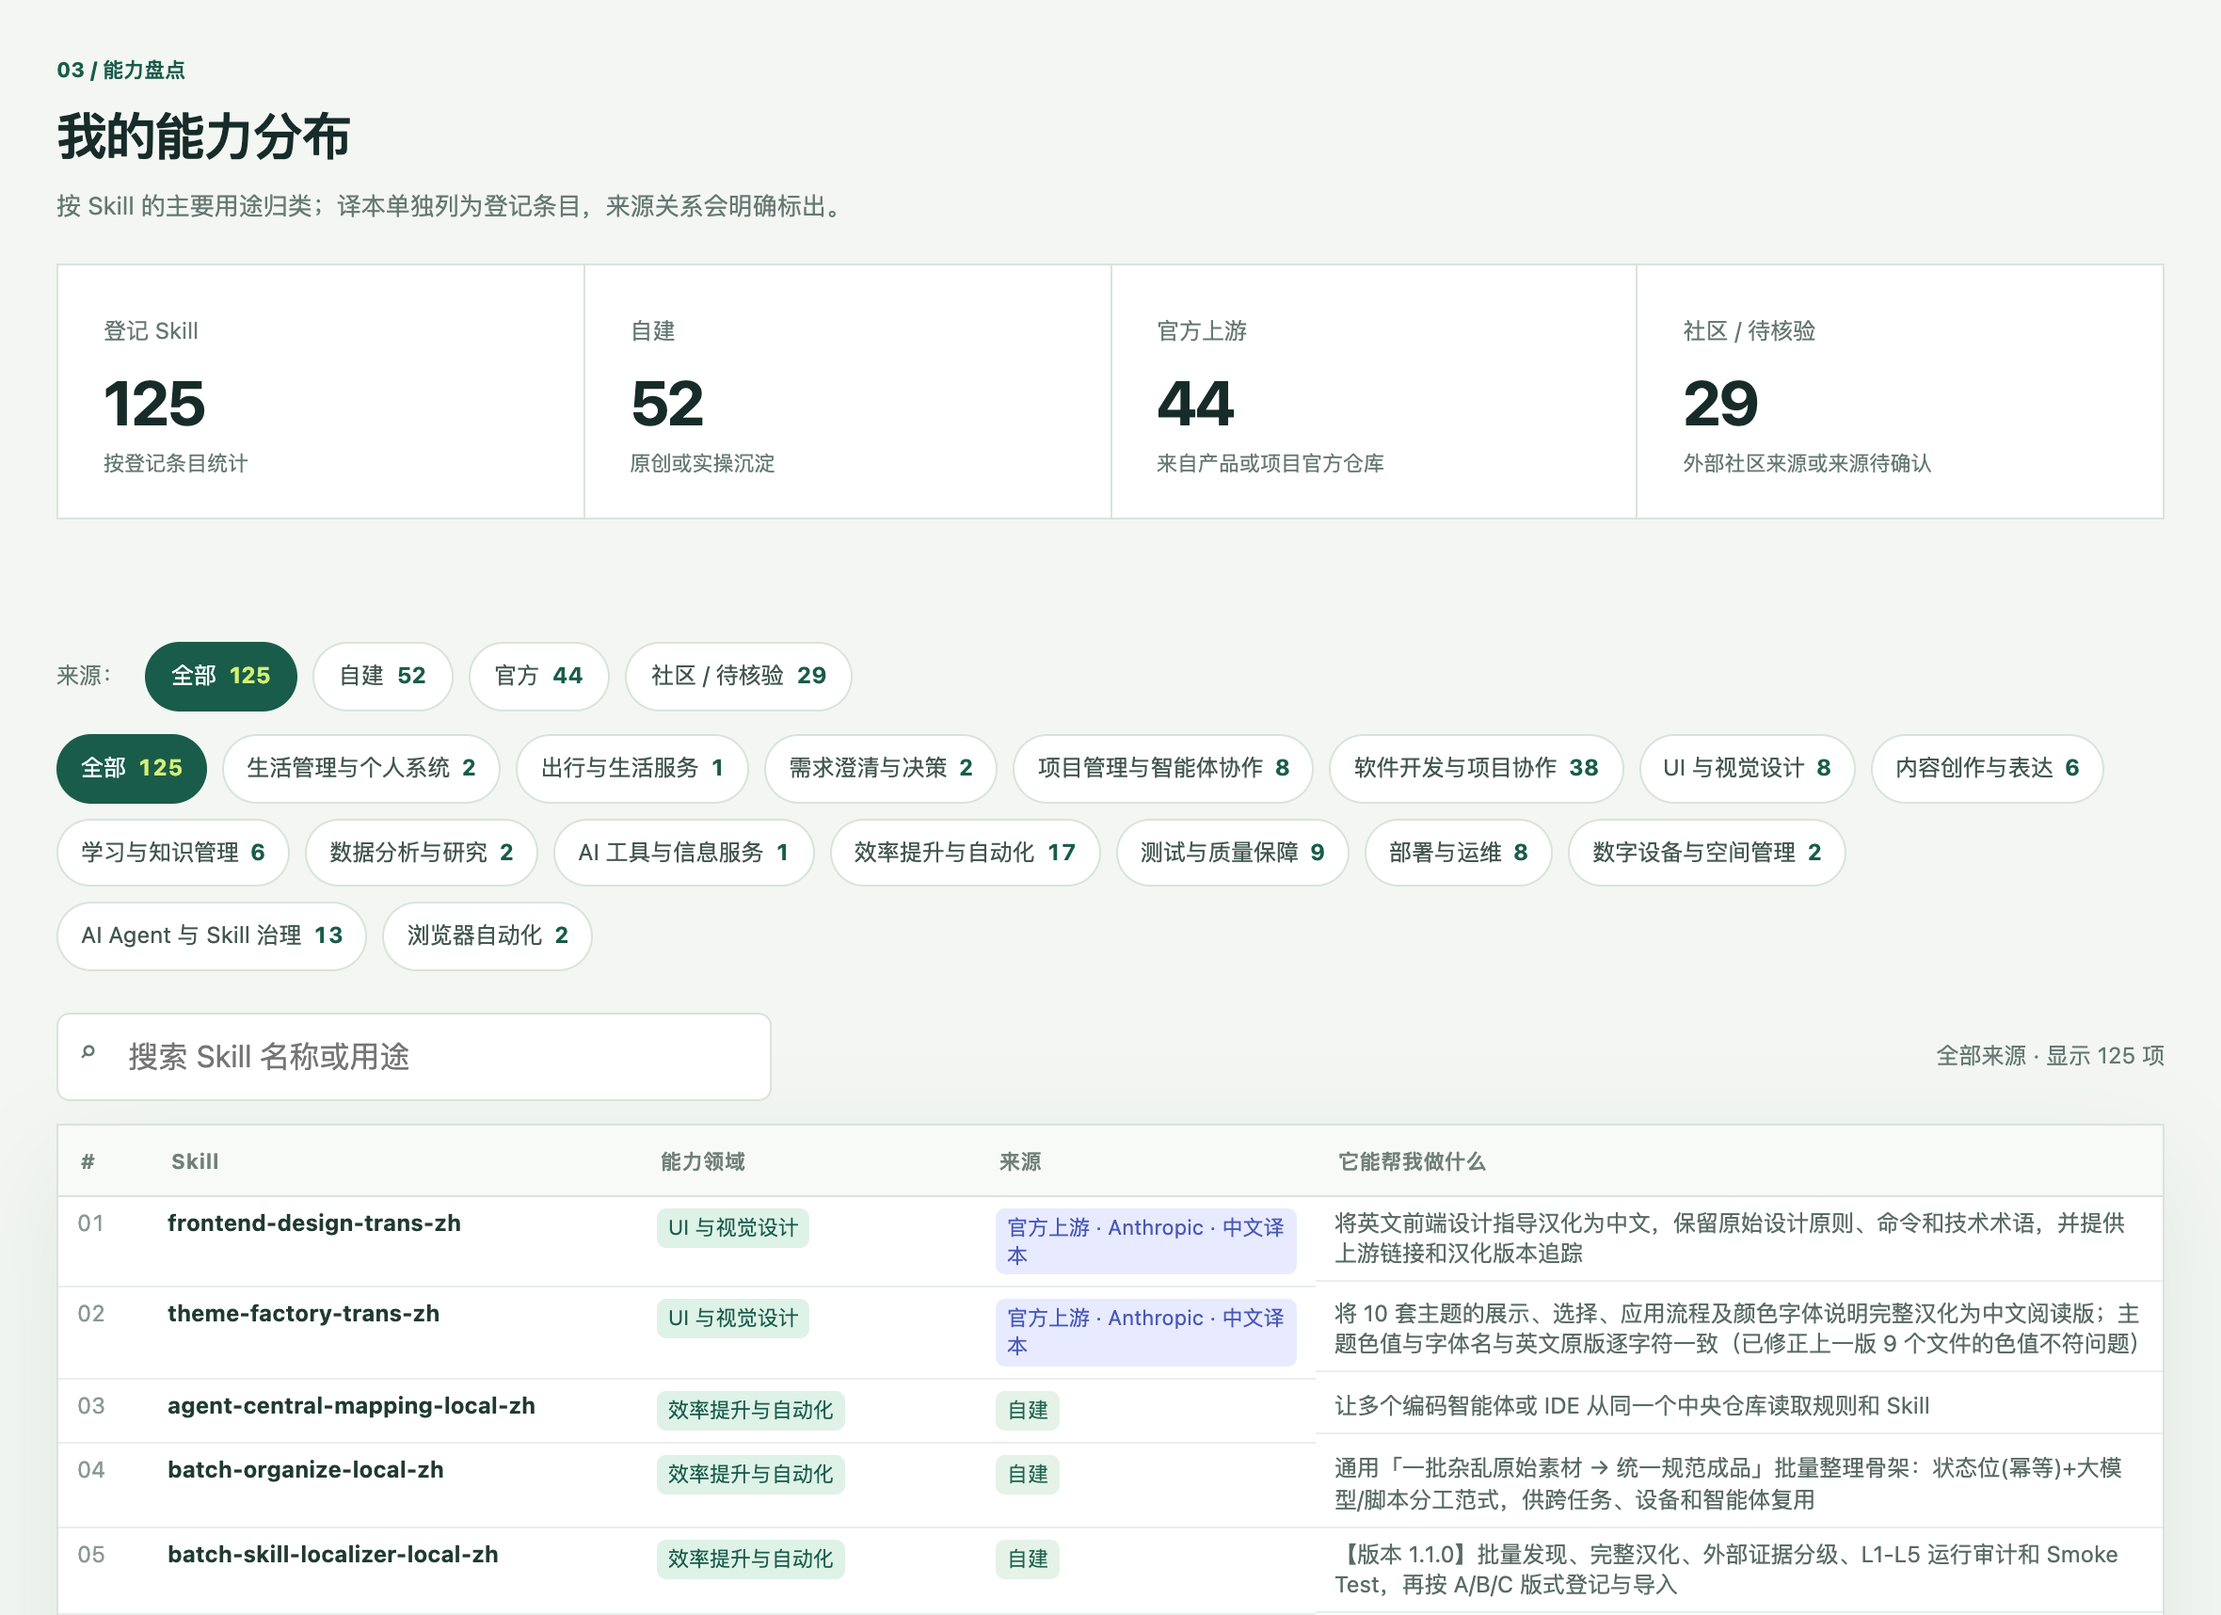
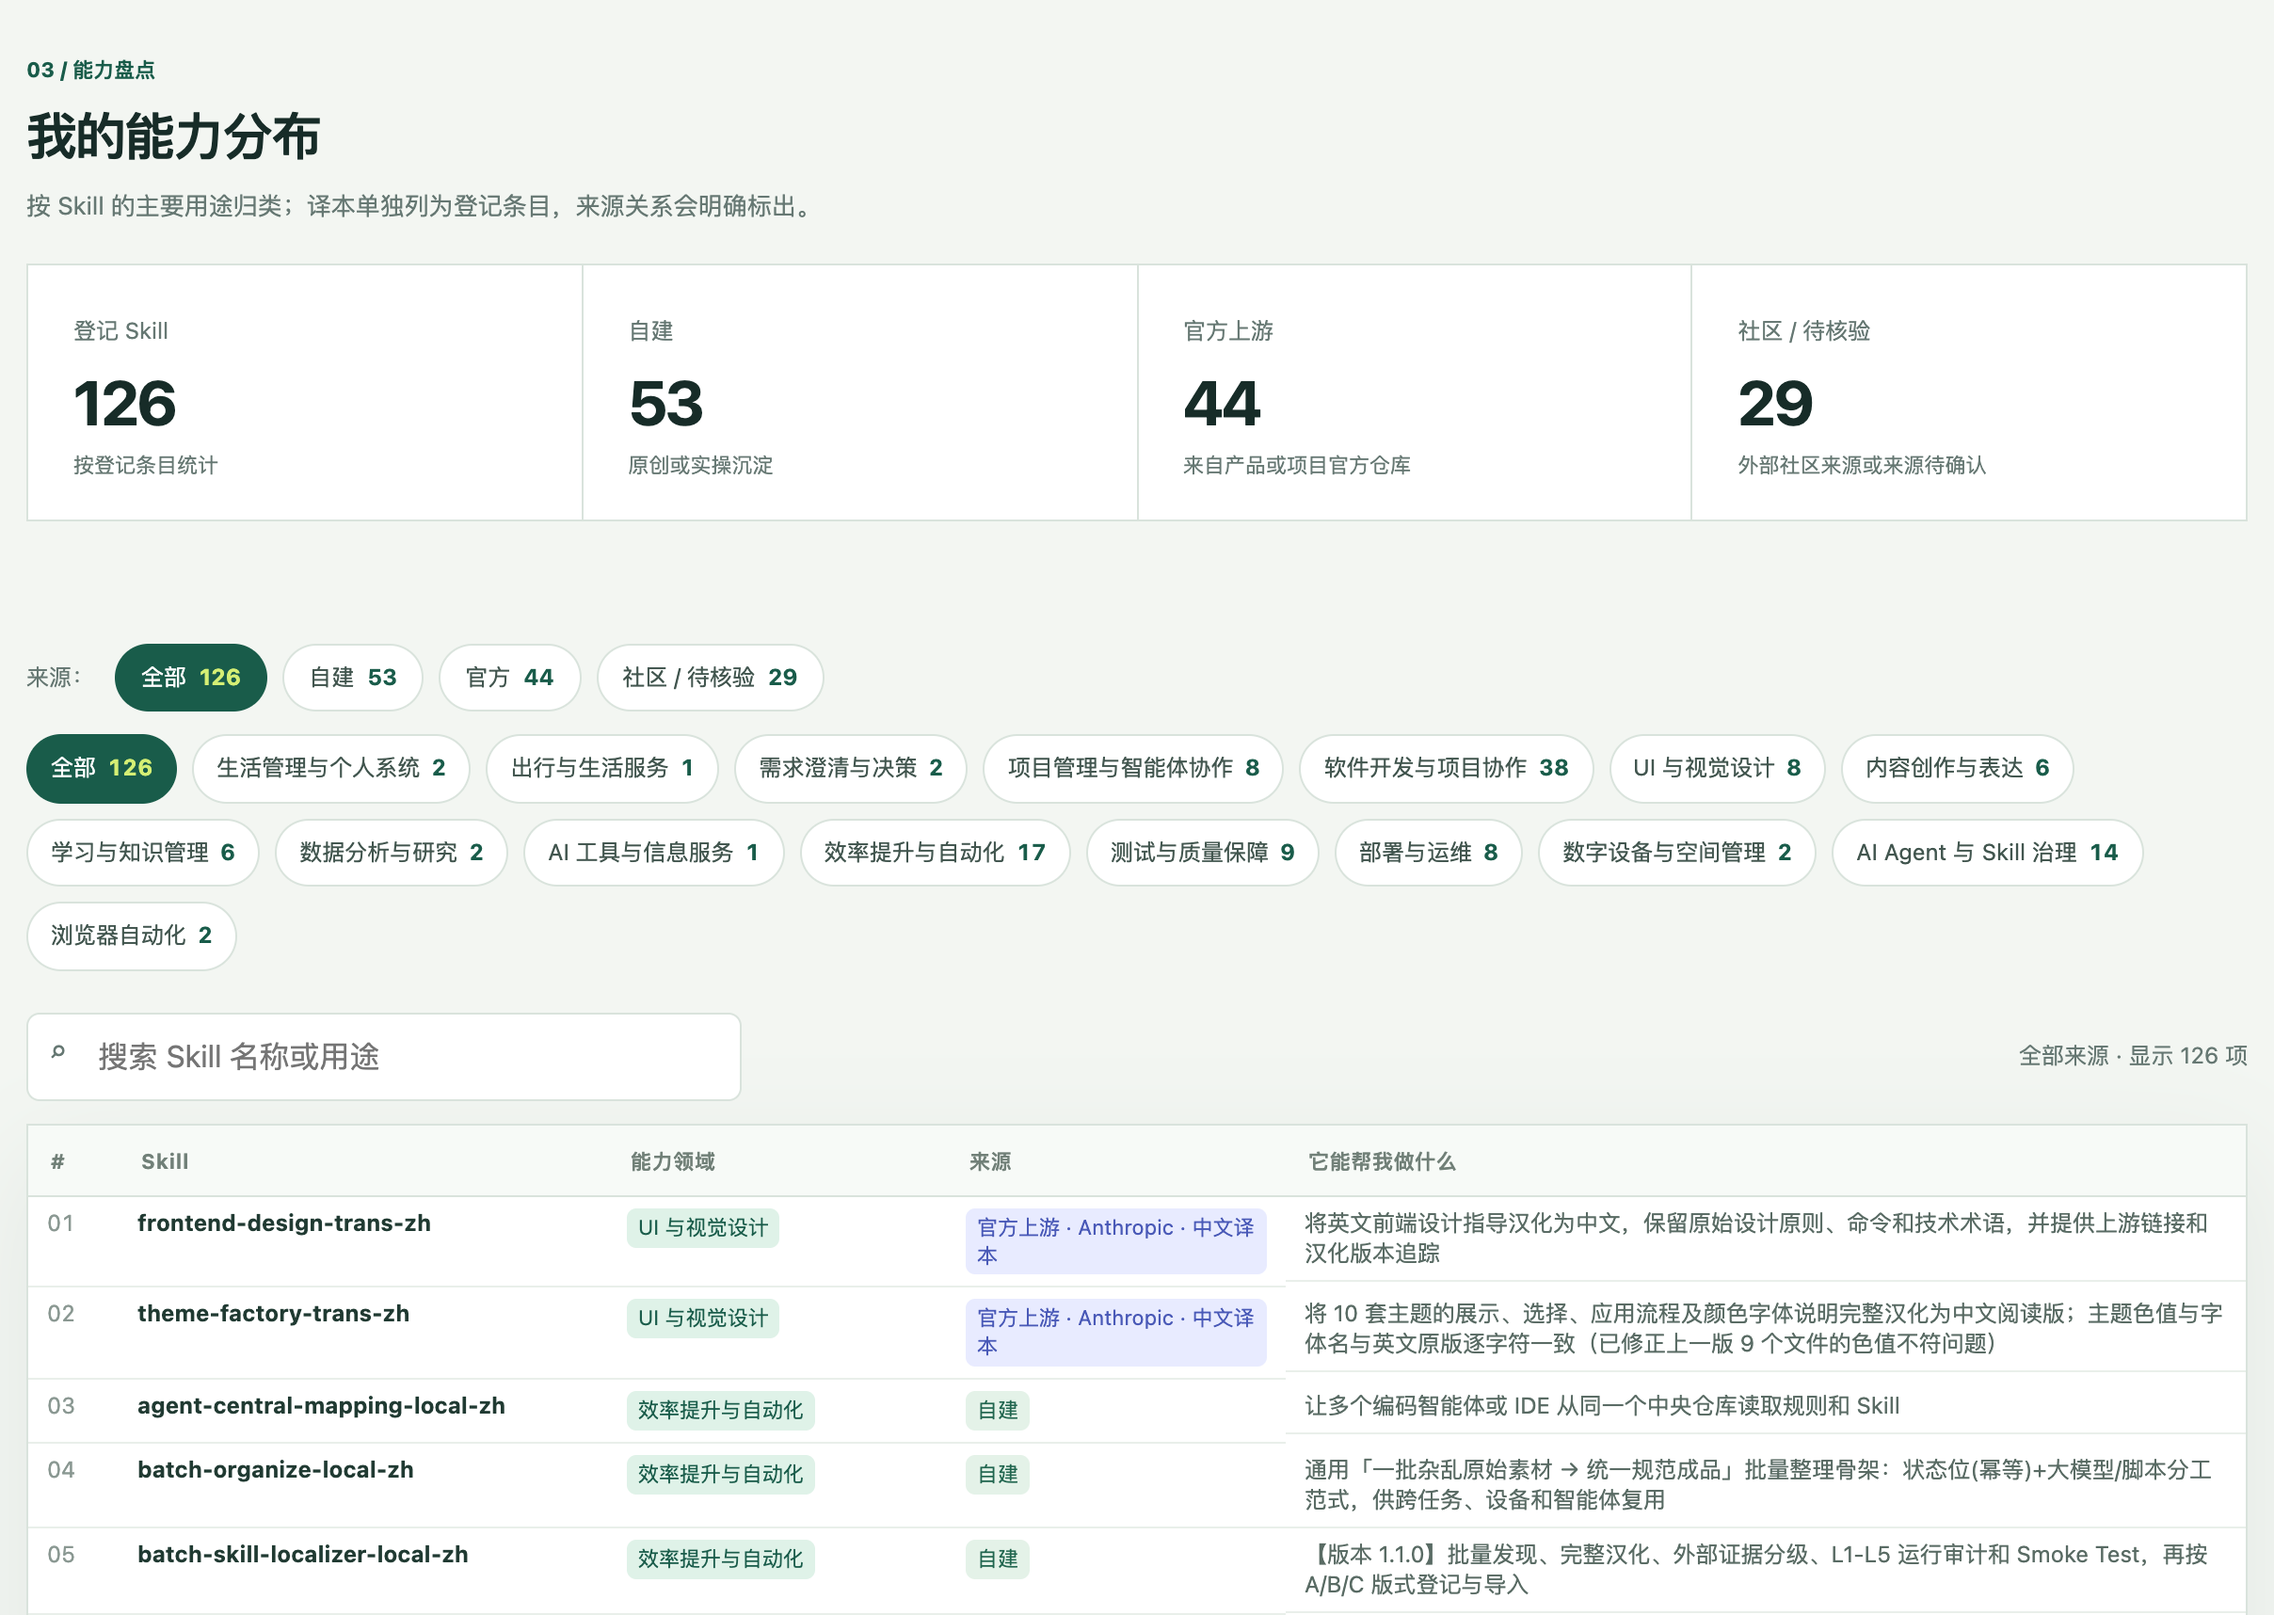
补齐 orca-system-self-check-local-zh 并对账到 126 项
上一轮按行解析中央清单 HTML 表，漏掉一条与别行挤在同一物理行的记录，把中央登记算成 105，合计报成 125。本轮改用表格结构读取：中央 106 项、Skill Manager 107 条记录去重后 101 个唯一名，并集 126 项。

- 补入 orca-system-self-check-local-zh 1.0.2（自建，AI Agent 与 Skill 治理 13→14）
- 来源口径改为自建 53 / 官方 44 / 社区待核验 29
- 迭代记录 2026-10-28 记两条，总数 183
- 同步示意图快照并重截能力盘点、持续改进截图

diff --git a/index.html b/index.html
@@ -72,7 +72,7 @@
         <div class="table-shell"><table><thead><tr><th scope="col">#</th><th scope="col">Skill</th><th scope="col">能力领域</th><th scope="col">来源</th><th scope="col">它能帮我做什么</th></tr></thead><tbody id="skillRows"><tr><td class="loading" colspan="5">正在读取技能清单…</td></tr></tbody></table></div>
       </section>
     </main>
-    <footer class="foot"><span>数据快照：<span id="snapshot">2026-10-27</span> · 来源：中央仓库与个人技能库</span><span><a href="https://github.com/wanghoufan/alw-002-skill-system-map">GitHub 仓库</a> · 页面按登记信息手动更新</span></footer>
+    <footer class="foot"><span>数据快照：<span id="snapshot">2026-10-28</span> · 来源：中央仓库与个人技能库</span><span><a href="https://github.com/wanghoufan/alw-002-skill-system-map">GitHub 仓库</a> · 页面按登记信息手动更新</span></footer>
   </div>
   <script>
   const escapeHtml = s => String(s).replace(/[&<>"']/g, c => ({'&':'&amp;','<':'&lt;','>':'&gt;','"':'&quot;',"'":'&#39;'}[c]));
@@ -119,7 +119,7 @@
     }
     document.getElementById('heatMonths').innerHTML=['1月','2月','3月','4月','5月','6月','7月','8月','9月','10月','11月','12月'].map(x=>`<span>${x}</span>`).join('');
     const dated=[...data.events].sort((a,b)=>b.date.localeCompare(a.date));const latest=dated[0]?.date||'—';document.getElementById('heatCaption').textContent=`统计口径：${data.countDefinition} 最近一条登记记录：${latest}。`;
-    const highlights=[['2026-09-23','集中复核中文译本，补齐原文结构与覆盖内容。'],['2026-09-24','完善 Skill 来源、分组和登记治理规则。'],['2026-09-28','新增课程卡片、代理测速等能力记录。'],['2026-10-05','补充项目治理与 GitHub Pages 实战经验。'],['2026-10-06','新增安全 MCP 接入和 Android 设备管理能力。'],['2026-10-07','新增 ORCA 设计流程七项 Skill，并更新 Codex session 额度保护。'],['2026-10-08','新增七项 ORCA Design Pipeline 中文阅读版，已启用并放入“汉化”组，不分发给智能体。'],['2026-10-10','茶话会投稿 Skill 升级到 1.3.0，补充配图校验；GitHub 展示 Skill 升级到 2.2.0；地图维护 Skill 升级到 1.1.0，公开地图改动默认发布并核验线上。'],['2026-10-12','新增 GitHub Spec Kit 官方 v1.1.3 的九项 SDD 执行 Skill，分发至十个已启用智能体；另制作九项中文阅读版并放入“汉化”组，不分发给智能体。'],['2026-10-14','新增 Vercel React Native / Expo 工程规则英文执行版，按中央规范登记并分发。'],['2026-10-15','补齐 Vercel React Native Skills 中文阅读版及 36 条规则代码示例，导入“汉化”组启用可见，不部署给智能体。'],['2026-10-17','Android 设备锁升级到 2.1.0：按智能体隔离长期绑定；完成手机操作后可显式释放，再安全交接给另一个身份。'],['2026-10-25','中央登记更新 4 条：GitHub 项目收尾与 README 维护升级，并补充主页从零和国内托管实战能力。'],['2026-10-26','新增 macOS 菜单栏指标小工具与 Capacitor 安卓实时预览两项自建能力，已登记并分发；同日新增社区上游 answer-me-with-html 英文执行版 v0.5.8 及其中文阅读版，中文版放入“汉化”组、不部署。Capacitor 实时预览升级 1.1.0：新增路线 B 手机浏览器局域网预览，0 部署额度，触发词扩展至网页/局域网预览。蒲公英 APK 分发升级 1.2.0：上传前预检启动图标，只有 adaptive icon XML、缺 mipmap PNG 时默认拦下，默认公开安装。本次巡检把中央表 6 条漏项补进地图、总数到 123。'],['2026-10-27','新增自建 Skill codebuddy-account-429-check-local-zh 1.0.0：逐账号实测 CodeBuddy 指定模型是否被 429 限流，只读不切账号，输出账号 / HTTP / 状态 / 重置时间 / 距现在 表格与最早恢复时间。中央登记、Skill Manager 与地图三处同步，总数到 124。'],['2026-10-28','新增自建 Skill course-prompt-distiller-local-zh 1.0.0：把课程全文稿蒸馏成「课程原版＋通用版」可复用提示词库，按「能整段直接发给 AI 执行」筛条目、原版逐字保留可回源、通用版最小通用化并过交付前质量自查闸。中央登记、Skill Manager 与地图三处同步，总数到 125。']];
+    const highlights=[['2026-09-23','集中复核中文译本，补齐原文结构与覆盖内容。'],['2026-09-24','完善 Skill 来源、分组和登记治理规则。'],['2026-09-28','新增课程卡片、代理测速等能力记录。'],['2026-10-05','补充项目治理与 GitHub Pages 实战经验。'],['2026-10-06','新增安全 MCP 接入和 Android 设备管理能力。'],['2026-10-07','新增 ORCA 设计流程七项 Skill，并更新 Codex session 额度保护。'],['2026-10-08','新增七项 ORCA Design Pipeline 中文阅读版，已启用并放入“汉化”组，不分发给智能体。'],['2026-10-10','茶话会投稿 Skill 升级到 1.3.0，补充配图校验；GitHub 展示 Skill 升级到 2.2.0；地图维护 Skill 升级到 1.1.0，公开地图改动默认发布并核验线上。'],['2026-10-12','新增 GitHub Spec Kit 官方 v1.1.3 的九项 SDD 执行 Skill，分发至十个已启用智能体；另制作九项中文阅读版并放入“汉化”组，不分发给智能体。'],['2026-10-14','新增 Vercel React Native / Expo 工程规则英文执行版，按中央规范登记并分发。'],['2026-10-15','补齐 Vercel React Native Skills 中文阅读版及 36 条规则代码示例，导入“汉化”组启用可见，不部署给智能体。'],['2026-10-17','Android 设备锁升级到 2.1.0：按智能体隔离长期绑定；完成手机操作后可显式释放，再安全交接给另一个身份。'],['2026-10-25','中央登记更新 4 条：GitHub 项目收尾与 README 维护升级，并补充主页从零和国内托管实战能力。'],['2026-10-26','新增 macOS 菜单栏指标小工具与 Capacitor 安卓实时预览两项自建能力，已登记并分发；同日新增社区上游 answer-me-with-html 英文执行版 v0.5.8 及其中文阅读版，中文版放入“汉化”组、不部署。Capacitor 实时预览升级 1.1.0：新增路线 B 手机浏览器局域网预览，0 部署额度，触发词扩展至网页/局域网预览。蒲公英 APK 分发升级 1.2.0：上传前预检启动图标，只有 adaptive icon XML、缺 mipmap PNG 时默认拦下，默认公开安装。本次巡检把中央表 6 条漏项补进地图、总数到 123。'],['2026-10-27','新增自建 Skill codebuddy-account-429-check-local-zh 1.0.0：逐账号实测 CodeBuddy 指定模型是否被 429 限流，只读不切账号，输出账号 / HTTP / 状态 / 重置时间 / 距现在 表格与最早恢复时间。中央登记、Skill Manager 与地图三处同步，总数到 124。'],['2026-10-28','新增自建 Skill course-prompt-distiller-local-zh 1.0.0：把课程全文稿蒸馏成「课程原版＋通用版」可复用提示词库，按「能整段直接发给 AI 执行」筛条目、原版逐字保留可回源、通用版最小通用化并过交付前质量自查闸。中央登记、Skill Manager 与地图三处同步，同日补齐此前只进中央登记、漏进 Skill Manager 与地图的 orca-system-self-check-local-zh 1.0.2：ORCA 治理体系六维自检，只读、不改文件、不 commit，本次导入、启用、入 Default、部署 10 个 Agent。两项均已三处同步；按中央登记 106 行与 Skill Manager 101 个唯一名重新对账，总数到 126。']];
     document.getElementById('recent').innerHTML=highlights.map(([date,text])=>`<article><time>${date}</time><p>${escapeHtml(text)}</p></article>`).join('');
   }
   load().catch(err=>{document.getElementById('skillRows').innerHTML=`<tr><td colspan="5" class="empty">${escapeHtml(err.message)}。请稍后刷新页面。</td></tr>`;document.getElementById('heatSub').textContent='迭代记录暂时不可用'});

diff --git a/README.en.md b/README.en.md
@@ -24,11 +24,11 @@ Domains include life management, travel, requirements, project collaboration, UI
 
 ## Public data snapshot
 
-The public page reflects a data snapshot from **2026-10-28**, with 125 registered Skills. Translations and their English originals are listed separately. Community contributions and entries with unverified sources are labeled “Community / Unverified.”
+The public page reflects a data snapshot from **2026-10-28**, with 126 registered Skills. Translations and their English originals are listed separately. Community contributions and entries with unverified sources are labeled “Community / Unverified.”
 
 | Source | Count | Description |
 | --- | ---: | --- |
-| Self-built | 52 | Original skills and practical experience captured for reuse |
+| Self-built | 53 | Original skills and practical experience captured for reuse |
 | Official upstream | 44 | Skills from official product or project repositories |
 | Community / Unverified | 29 | Community contributions or entries whose source has not been confirmed |
 

diff --git a/README.md b/README.md
@@ -24,11 +24,11 @@
 
 ## 当前公开数据
 
-公开页面的数据快照截至 **2026-10-28**，共登记 125 个 Skill。翻译版与英文原版作为独立条目展示；社区作品和来源尚未确认的条目归入“社区 / 待核验”。
+公开页面的数据快照截至 **2026-10-28**，共登记 126 个 Skill。翻译版与英文原版作为独立条目展示；社区作品和来源尚未确认的条目归入“社区 / 待核验”。
 
 | 来源 | 数量 | 说明 |
 | --- | ---: | --- |
-| 自建 | 52 | 原创或实操经验沉淀 |
+| 自建 | 53 | 原创或实操经验沉淀 |
 | 官方上游 | 44 | 来自产品或项目的官方仓库 |
 | 社区 / 待核验 | 29 | 外部社区作品或来源尚未确认 |
 
